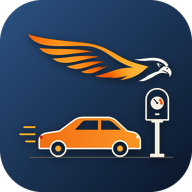
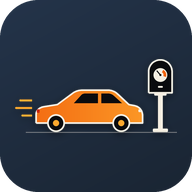
Icones sense falcó i pantalla d'inici d'Android blau pissarra

diff --git a/sw.js b/sw.js
@@ -1,5 +1,5 @@
 /* Service worker: l'app funciona sense connexió (el mapa necessita xarxa). */
-const VERSIO = 'xa-v2';
+const VERSIO = 'xa-v2-icones';
 const FITXERS = [
   './', 'index.html', 'app.css', 'marca/marca.css', 'marca/Montserrat-ExtraBold.ttf', 'app.js', 'manifest.webmanifest',
   'icons/simbol.png', 'icons/falco.png', 'icons/icon-192.png', 'icons/icon-512.png', 'icons/favicon.png', 'icons/apple-touch-icon.png',
